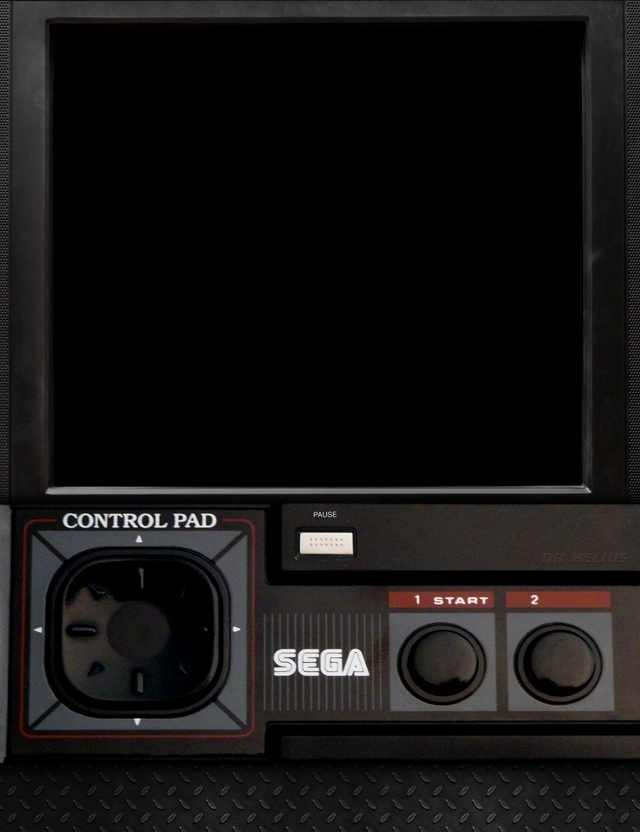
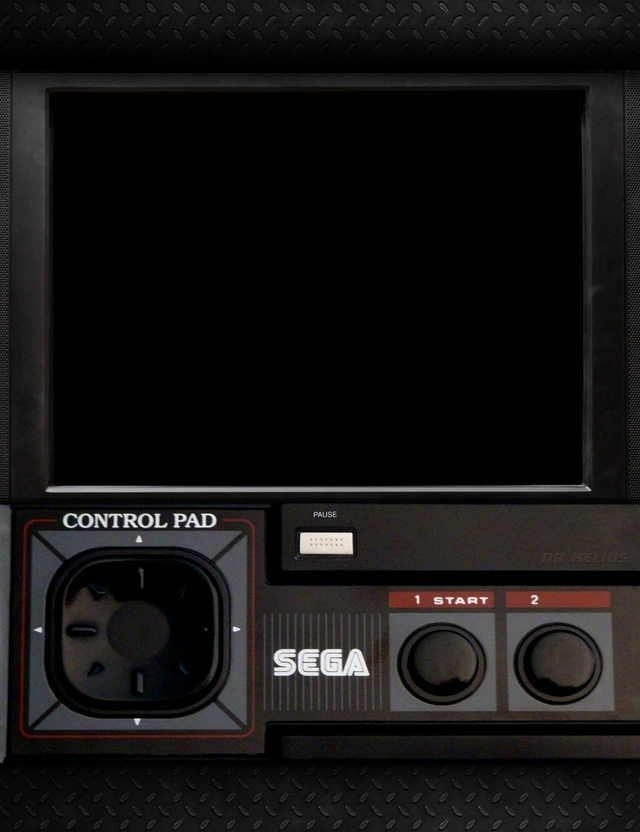
dynamic resolution changes on iOS

diff --git a/platforms/ios/Gearsystem/Emulator.mm b/platforms/ios/Gearsystem/Emulator.mm
@@ -22,21 +22,16 @@
 #include <SDL2/SDL.h>
 #include "inputmanager.h"
 
-const float kGB_Width = 256.0f;
-const float kGB_Height = 224.0f;
-const float kGB_TexWidth = kGB_Width / 256.0f;
-const float kGB_TexHeight = kGB_Height / 256.0f;
-const GLfloat box[] = {0.0f, kGB_Height, 1.0f, kGB_Width,kGB_Height, 1.0f, 0.0f, 0.0f, 1.0f, kGB_Width, 0.0f, 1.0f};
-const GLfloat tex[] = {0.0f, kGB_TexHeight, kGB_TexWidth, kGB_TexHeight, 0.0f, 0.0f, kGB_TexWidth, 0.0f};
-
 @implementation Emulator
 
-@synthesize multiplier, retina, iPad;
+@synthesize multiplier, retina, iPad, theGearsystemCore;
 
 -(id)init
 {
     if (self = [super init])
     {
+        scr_w = 256;
+        scr_h = 192;
         saveStatePending = NO;
         loadStatePending = NO;
         
@@ -56,14 +51,14 @@ const GLfloat tex[] = {0.0f, kGB_TexHeight, kGB_TexWidth, kGB_TexHeight, 0.0f, 0
         
         theInput = new EmulatorInput(self);
         theInput->Init();
-        theFrameBuffer = new GS_Color[GS_SMS_WIDTH * GS_SMS_HEIGHT];
+        theFrameBuffer = new GS_Color[GS_RESOLUTION_MAX_WIDTH * GS_RESOLUTION_MAX_HEIGHT];
         theTexture = new GS_Color[256 * 256];
         
-        for (int y = 0; y < GS_SMS_HEIGHT; ++y)
+        for (int y = 0; y < GS_RESOLUTION_MAX_HEIGHT; ++y)
         {
-            for (int x = 0; x < GS_SMS_WIDTH; ++x)
+            for (int x = 0; x < GS_RESOLUTION_MAX_WIDTH; ++x)
             {
-                int pixel = (y * GS_SMS_WIDTH) + x;
+                int pixel = (y * GS_RESOLUTION_MAX_WIDTH) + x;
                 theFrameBuffer[pixel].red = theFrameBuffer[pixel].green = theFrameBuffer[pixel].blue = 0x00;
                 theFrameBuffer[pixel].alpha = 0xFF;
             }
@@ -116,17 +111,24 @@ const GLfloat tex[] = {0.0f, kGB_TexHeight, kGB_TexWidth, kGB_TexHeight, 0.0f, 0
     int sampleCount = 0;
 
     theGearsystemCore->RunToVBlank(theFrameBuffer, theSampleBufffer, &sampleCount);
+    
+    GS_RuntimeInfo runtime_info;
+    if (theGearsystemCore->GetRuntimeInfo(runtime_info))
+    {
+        scr_w = runtime_info.screen_width;
+        scr_h = runtime_info.screen_height;
+    }
 
     if (audioEnabled && (sampleCount > 0))
     {
         theSoundQueue->write(theSampleBufffer, sampleCount);
     }
 
-    for (int y = 0; y < GS_SMS_HEIGHT; ++y)
+    for (int y = 0; y < scr_h; ++y)
     {
         int y_256 = y * 256;
-        int y_gb_width = y * GS_SMS_WIDTH;
-        for (int x = 0; x < GS_SMS_WIDTH; ++x)
+        int y_gb_width = y * scr_w;
+        for (int x = 0; x < scr_w; ++x)
         {
             theTexture[y_256 + x] = theFrameBuffer[y_gb_width + x];
         }
@@ -145,8 +147,7 @@ const GLfloat tex[] = {0.0f, kGB_TexHeight, kGB_TexWidth, kGB_TexHeight, 0.0f, 0
     glEnableClientState(GL_VERTEX_ARRAY);
     glEnableClientState(GL_TEXTURE_COORD_ARRAY);
 
-    glVertexPointer(3, GL_FLOAT, 0, box);
-    glTexCoordPointer(2, GL_FLOAT, 0, tex);
+    
 
     glClearColor(0.0, 0.0, 0.0, 0.0);
 
@@ -161,7 +162,7 @@ const GLfloat tex[] = {0.0f, kGB_TexHeight, kGB_TexWidth, kGB_TexHeight, 0.0f, 0
 {
     glBindTexture(GL_TEXTURE_2D, GBTexture);
     glTexSubImage2D(GL_TEXTURE_2D, 0, 0, 0, 256, 256, GL_RGBA, GL_UNSIGNED_BYTE, (GLvoid*) theTexture);
-    [self renderQuadWithViewportWidth:(128 * multiplier) andHeight:(112 * multiplier) andMirrorY:NO];
+    [self renderQuadWithViewportWidth:(scr_w) andHeight:(scr_h) andMirrorY:NO];
     
     if (IsValidPointer(scanlineTexture))
     {
@@ -169,7 +170,7 @@ const GLfloat tex[] = {0.0f, kGB_TexHeight, kGB_TexWidth, kGB_TexHeight, 0.0f, 0
         glEnable(GL_BLEND);
         glColor4f(1.0f, 1.0f, 1.0f, 0.35f);
         glBlendFunc(GL_SRC_ALPHA, GL_ONE_MINUS_SRC_ALPHA);
-        [self renderQuadWithViewportWidth:(128 * multiplier) andHeight:(112 * multiplier) andMirrorY:NO];
+        [self renderQuadWithViewportWidth:(scr_w) andHeight:(scr_h) andMirrorY:NO];
         glColor4f(1.0f, 1.0f, 1.0f, 1.0f);
         glDisable(GL_BLEND);
     }
@@ -184,6 +185,16 @@ const GLfloat tex[] = {0.0f, kGB_TexHeight, kGB_TexWidth, kGB_TexHeight, 0.0f, 0
 
 -(void)renderQuadWithViewportWidth: (float)viewportWidth andHeight: (float)viewportHeight andMirrorY: (BOOL) mirrorY
 {
+    float kGB_Width = viewportWidth;
+    float kGB_Height = viewportHeight;
+    float kGB_TexWidth = kGB_Width / 256.0f;
+    float kGB_TexHeight = kGB_Height / 256.0f;
+    GLfloat box[] = {0.0f, kGB_Height, 1.0f, kGB_Width,kGB_Height, 1.0f, 0.0f, 0.0f, 1.0f, kGB_Width, 0.0f, 1.0f};
+    GLfloat tex[] = {0.0f, kGB_TexHeight, kGB_TexWidth, kGB_TexHeight, 0.0f, 0.0f, kGB_TexWidth, 0.0f};
+    
+    glVertexPointer(3, GL_FLOAT, 0, box);
+    glTexCoordPointer(2, GL_FLOAT, 0, tex);
+    
     glMatrixMode(GL_PROJECTION);
     glLoadIdentity();
     if (mirrorY)
@@ -192,7 +203,7 @@ const GLfloat tex[] = {0.0f, kGB_TexHeight, kGB_TexWidth, kGB_TexHeight, 0.0f, 0
         glOrthof(0.0f, kGB_Width, kGB_Height, 0.0f, -1.0f, 1.0f);
     glMatrixMode(GL_MODELVIEW);
     glLoadIdentity();
-    glViewport(0, 0, viewportWidth, viewportHeight);
+    glViewport(0, 0, 128 * multiplier, 92 * multiplier);
     glDrawArrays(GL_TRIANGLE_STRIP, 0, 4);
 }
 

diff --git a/platforms/ios/Gearsystem/GLViewController.mm b/platforms/ios/Gearsystem/GLViewController.mm
@@ -69,17 +69,17 @@
         if (h == 667)
         {
             multiplier = 2.0;
-            view.frame = CGRectMake(59, 27, 128 * multiplier, 112 * multiplier);
+            view.frame = CGRectMake(59, 67, 128 * multiplier, 92 * multiplier);
         }
         else if (h == 736)
         {
             multiplier = 3.0;
-            view.frame = CGRectMake(16, 8, 128 * multiplier, 112 * multiplier);
+            view.frame = CGRectMake(16, 68, 128 * multiplier, 92 * multiplier);
         }
         else
         {
             multiplier = 2.0;
-            view.frame = CGRectMake(31, 15, 128 * multiplier, 112 * multiplier);
+            view.frame = CGRectMake(31, 55, 128 * multiplier, 92 * multiplier);
         }
 
     }
@@ -87,7 +87,7 @@
     {
         iPad = YES;
         multiplier = 4.0;
-        view.frame = CGRectMake(128, 28, 128 * multiplier, 112 * multiplier);
+        view.frame = CGRectMake(128, 108, 128 * multiplier, 92 * multiplier);
     }
     
     self.theEmulator.multiplier = multiplier * scale;

diff --git a/platforms/ios/Gearsystem/Emulator.h b/platforms/ios/Gearsystem/Emulator.h
@@ -33,7 +33,6 @@
 
 @interface Emulator : NSObject
 {
-    GearsystemCore* theGearsystemCore;
     Sound_Queue* theSoundQueue;
     s16 theSampleBufffer[GS_AUDIO_BUFFER_SIZE];
     GS_Color* theFrameBuffer;
@@ -44,13 +43,15 @@
     BOOL audioEnabled;
     BOOL saveStatePending;
     BOOL loadStatePending;
+    int scr_w;
+    int scr_h;
 }
 
 @property (nonatomic) float multiplier;
 @property (nonatomic) BOOL retina;
 @property (nonatomic) BOOL iPad;
 @property (nonatomic) GLKView* glview;
-
+@property (nonatomic) GearsystemCore* theGearsystemCore;
 
 - (void)update;
 - (void)draw;
